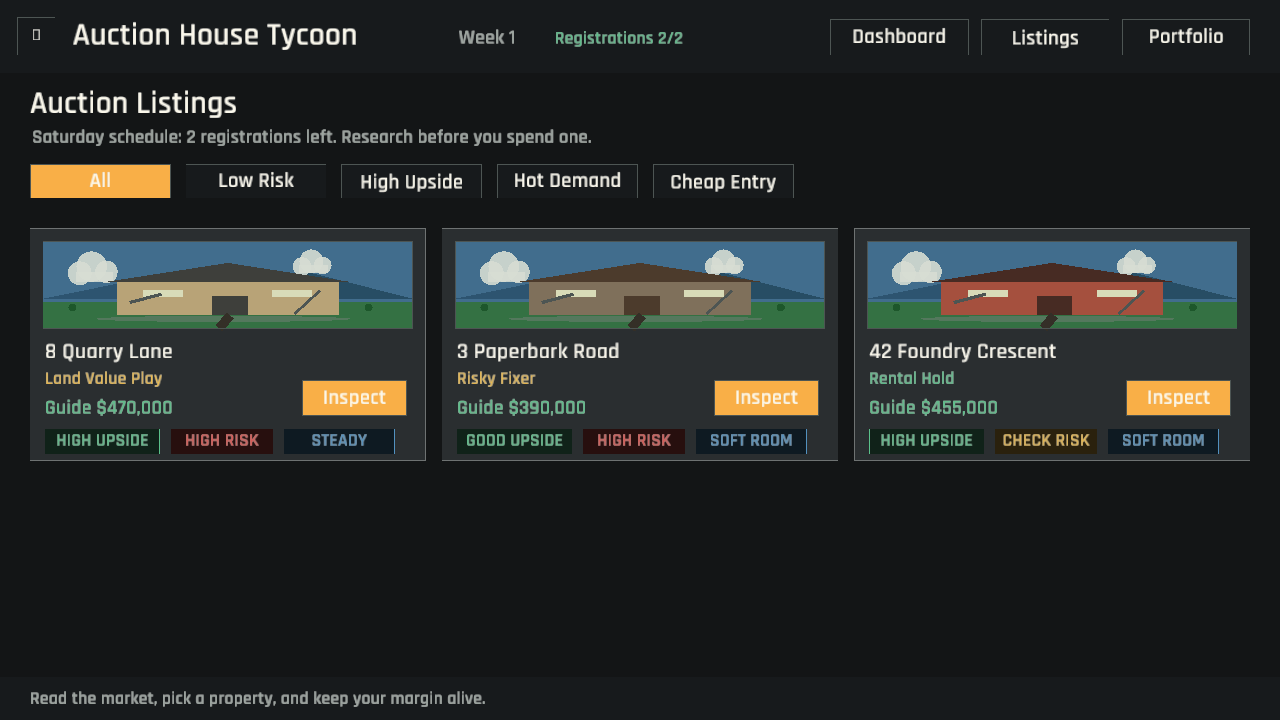
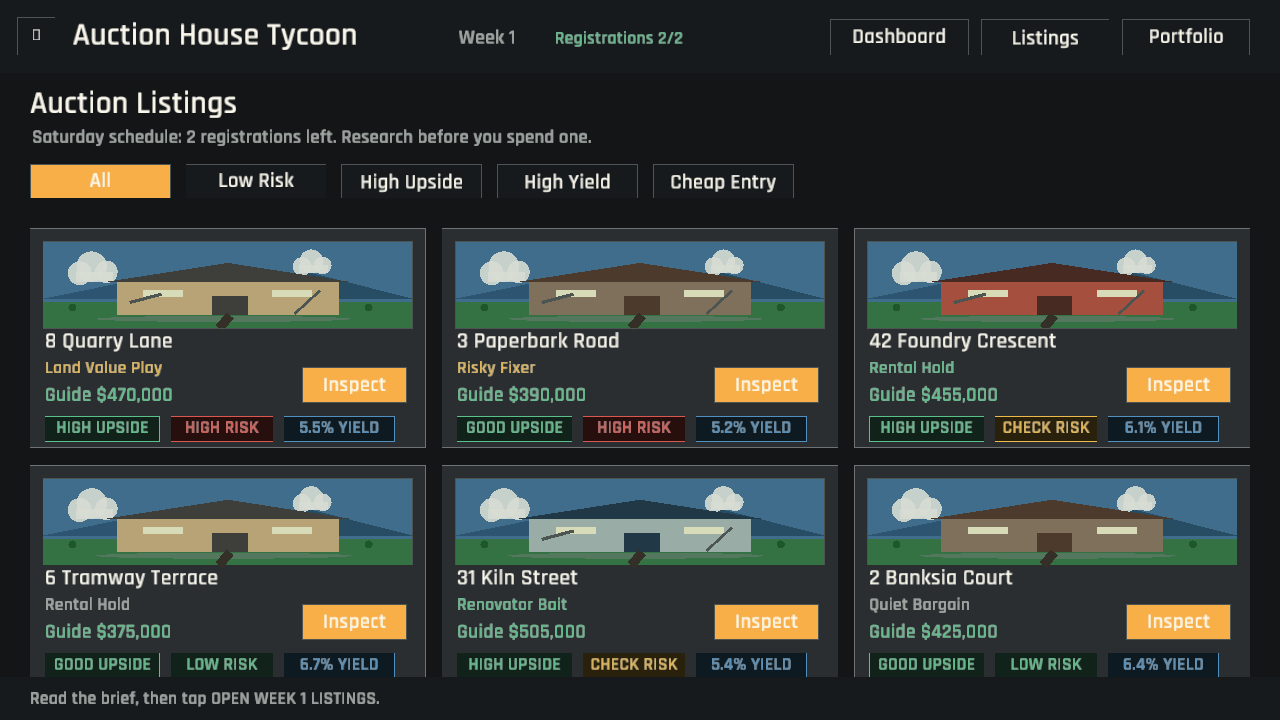
The quiet paddle earns a tell, and the rent column finds its place on Saturday's board (earned room reads and yield-led listings)
WAIT & READ ROOM previously exposed the same perfect ceiling analysis that the live screen displayed continuously, leaving the action without a purpose. The listings filters also prioritised hot resale demand while the campaign explicitly asks the player to build rent.

Room observations now appear only after the player lowers the paddle, become stale on the next player, NPC, or vendor bid, and scale from a visible tell to a coarse or precise read with diligence. Four tests cover read lifecycle, diligence precision, ego stretching, and quick NPC resolution.

Replace Hot Demand with a HIGH YIELD listing filter, print estimated gross yield on every card, and compact both rows for 720p. A content test guarantees multiple high-yield choices in the authored market, while exhausted schedules now direct the player to the visible PORTFOLIO control instead of promising impossible refreshes. Verified with 31 passing tests, initial/read auction and listing captures, and the complete publish.ps1 native/WebGL preview pipeline.

diff --git a/src/screens/property_list.rs b/src/screens/property_list.rs
@@ -1,5 +1,6 @@
 use crate::app::App;
 use crate::model::Property;
+use crate::sim::rental::weekly_rent_for;
 use crate::sim::valuation::estimated_value_range;
 use crate::ui::*;
 use macroquad::prelude::*;
@@ -8,7 +9,7 @@ const FILTERS: [&str; 5] = [
     "All",
     "Low Risk",
     "High Upside",
-    "Hot Demand",
+    "High Yield",
     "Cheap Entry",
 ];
 
@@ -57,7 +58,7 @@ impl App {
             .collect();
 
         let card_w = (ui_width() - 86.0) / 3.0;
-        let card_h = 218.0;
+        let card_h = 206.0;
         let mut inspect_index = None;
 
         for (slot, property_index) in visible.iter().enumerate() {
@@ -73,7 +74,7 @@ impl App {
             label_fit(
                 &property.address,
                 x + 14.0,
-                y + 122.0,
+                y + 112.0,
                 card_w - 144.0,
                 21,
                 TEXT_BRIGHT,
@@ -81,35 +82,35 @@ impl App {
             label(
                 reason_to_care(property, self),
                 x + 14.0,
-                y + 146.0,
+                y + 136.0,
                 16,
                 verdict_color(property, self),
             );
             label(
                 &format!("Guide {}", format_money(property.guide_price)),
                 x + 14.0,
-                y + 174.0,
+                y + 162.0,
                 19,
                 POSITIVE,
             );
             draw_badge(
                 upside_badge(property, self),
-                Rect::new(x + 14.0, y + 188.0, 108.0, 24.0),
+                Rect::new(x + 14.0, y + 176.0, 108.0, 24.0),
                 POSITIVE,
             );
             draw_badge(
                 risk_badge(property),
-                Rect::new(x + 132.0, y + 188.0, 96.0, 24.0),
+                Rect::new(x + 132.0, y + 176.0, 96.0, 24.0),
                 risk_color(property),
             );
             draw_badge(
-                demand_badge(property),
-                Rect::new(x + 238.0, y + 188.0, 104.0, 24.0),
+                &yield_badge(property, self),
+                Rect::new(x + 238.0, y + 176.0, 104.0, 24.0),
                 crate::ui::BLUE,
             );
 
             let inspect_pressed = if button(
-                Rect::new(x + card_w - 116.0, y + 142.0, 98.0, 34.0),
+                Rect::new(x + card_w - 116.0, y + 130.0, 98.0, 34.0),
                 "Inspect",
                 true,
                 ButtonTone::Primary,
@@ -127,14 +128,22 @@ impl App {
             let empty = Rect::new(28.0, 214.0, ui_width() - 56.0, 150.0);
             soft_panel(empty);
             label(
-                "No listings match this filter.",
+                if self.available_properties.is_empty() {
+                    "The season's auction book is exhausted."
+                } else {
+                    "No listings match this filter."
+                },
                 empty.x + 20.0,
                 empty.y + 48.0,
                 24,
                 TEXT_BRIGHT,
             );
             label(
-                "Try All, or advance the week to refresh the market.",
+                if self.available_properties.is_empty() {
+                    "Tap PORTFOLIO to improve, lease, hold, or sell the homes you secured."
+                } else {
+                    "Tap ALL, or advance the week to rotate the market."
+                },
                 empty.x + 20.0,
                 empty.y + 82.0,
                 18,
@@ -152,7 +161,7 @@ fn listing_matches(app: &App, property: &Property) -> bool {
     match app.listing_filter {
         1 => property.hidden_defect_risk < 0.18,
         2 => upside_amount(property, app) >= 70_000,
-        3 => property.buyer_demand >= 65,
+        3 => gross_yield(property, app) >= 0.05,
         4 => property.guide_price <= 500_000,
         _ => true,
     }
@@ -194,14 +203,12 @@ fn risk_color(property: &Property) -> Color {
     }
 }
 
-fn demand_badge(property: &Property) -> &'static str {
-    if property.buyer_demand >= 70 {
-        "HOT DEMAND"
-    } else if property.buyer_demand >= 55 {
-        "STEADY"
-    } else {
-        "SOFT ROOM"
-    }
+fn gross_yield(property: &Property, app: &App) -> f32 {
+    weekly_rent_for(property, app.market()) as f32 * 52.0 / property.guide_price.max(1) as f32
+}
+
+fn yield_badge(property: &Property, app: &App) -> String {
+    format!("{:.1}% YIELD", gross_yield(property, app) * 100.0)
 }
 
 fn reason_to_care(property: &Property, app: &App) -> &'static str {

diff --git a/src/sim/auction_sim.rs b/src/sim/auction_sim.rs
@@ -83,6 +83,7 @@ pub fn create_auction(
         player_bid_count: 0,
         on_market_announced: false,
         vendor_bid_used: false,
+        last_room_read: None,
     }
 }
 
@@ -153,6 +154,7 @@ pub fn place_player_bid(auction: &mut Auction) {
 
     let next_bid = auction.next_bid();
     auction.current_bid = next_bid;
+    auction.last_room_read = None;
     auction.last_bidder = Some(BidderActor::Player);
     auction.player_bid_count += 1;
     extend_if_needed(auction);
@@ -182,6 +184,7 @@ pub fn place_player_jump_bid(auction: &mut Auction) -> String {
 
     let jump_bid = auction.jump_bid();
     auction.current_bid = jump_bid;
+    auction.last_room_read = None;
     auction.last_bidder = Some(BidderActor::Player);
     auction.jump_bid_available = false;
     auction.player_bid_count += 1;
@@ -257,6 +260,7 @@ pub fn hold_player_position(auction: &mut Auction) -> String {
     }
 
     let read = room_read(auction);
+    auction.last_room_read = Some(read.clone());
     push_log(auction, format!("You wait with the paddle down. {read}"));
     auction.call_timer = auction.call_timer.min(0.45);
     for bidder in &mut auction.bidders {
@@ -289,6 +293,19 @@ pub fn room_read(auction: &Auction) -> String {
         return "No active bidder wants the next bid.".to_string();
     };
     let bidder = &auction.bidders[index];
+    if auction.player_research_level == ResearchLevel::StreetScan {
+        return format!("{}: {}", bidder.name, bidder.tell);
+    }
+    if auction.player_research_level == ResearchLevel::AgentPack {
+        return if headroom <= auction.bid_increment * 2 {
+            format!("{} looks uncomfortable at the next call.", bidder.name)
+        } else {
+            format!(
+                "{} still looks composed; the ceiling is unclear.",
+                bidder.name
+            )
+        };
+    }
     if headroom < 0 {
         format!("{} is priced out if the room asks again.", bidder.name)
     } else if headroom <= auction.bid_increment {
@@ -348,6 +365,7 @@ fn place_npc_bid(auction: &mut Auction, index: usize) {
     let next_bid = npc_bid_amount(auction, index);
     let was_stretch = next_bid > auction.bidders[index].max_price;
     auction.current_bid = next_bid;
+    auction.last_room_read = None;
     auction.last_bidder = Some(BidderActor::Npc(index));
     auction.bidders[index].bid_count += 1;
     auction.bidders[index].heat = (auction.bidders[index].heat + 12).min(100);

diff --git a/src/sim/auction_sim/tests.rs b/src/sim/auction_sim/tests.rs
@@ -166,3 +166,49 @@ fn crossing_the_true_reserve_announces_on_market_without_revealing_it_early() {
         .iter()
         .any(|entry| entry.text.contains("on the market")));
 }
+
+#[test]
+fn waiting_earns_a_room_read_and_the_next_bid_makes_it_stale() {
+    let mut auction = auction();
+
+    hold_player_position(&mut auction);
+    assert!(auction.last_room_read.is_some());
+
+    place_player_bid(&mut auction);
+    assert!(auction.last_room_read.is_none());
+}
+
+#[test]
+fn diligence_changes_room_read_precision() {
+    let mut auction = auction();
+    auction.player_research_level = ResearchLevel::StreetScan;
+    let street_read = room_read(&auction);
+    auction.player_research_level = ResearchLevel::AgentPack;
+    let agent_read = room_read(&auction);
+
+    assert!(street_read.contains(':'));
+    assert!(agent_read.contains("looks"));
+    assert_ne!(street_read, agent_read);
+}
+
+#[test]
+fn ego_bidder_can_stretch_when_the_player_makes_it_personal() {
+    let mut auction = auction();
+    auction.last_bidder = Some(BidderActor::Player);
+    let ego_limit = auction.bidders[1].max_price;
+
+    assert!(bidder_effective_ceiling(&auction, 1) > ego_limit);
+}
+
+#[test]
+fn quick_resolution_always_reaches_a_hammer_or_pass_in() {
+    let mut auction = auction();
+    stop_player_bidding(&mut auction);
+
+    quick_resolve_auction(&mut auction);
+
+    assert!(auction.status.is_some());
+    if matches!(auction.status, Some(AuctionStatus::SoldToNpc(_))) {
+        assert!(auction.current_bid >= auction.reserve_price);
+    }
+}

diff --git a/src/app/capture.rs b/src/app/capture.rs
@@ -1,7 +1,7 @@
 use super::App;
 use crate::model::{CampaignStatus, OwnedProperty, Property, ResearchLevel, WalkawayStyle};
 use crate::screens::Screen;
-use crate::sim::auction_sim::place_player_bid;
+use crate::sim::auction_sim::{hold_player_position, place_player_bid};
 use crate::sim::maintenance::{next_maintenance_week, trigger_due_maintenance};
 use crate::sim::rental::weekly_rent_for_owned;
 use crate::sim::valuation::{deposit, purchase_fees};
@@ -39,6 +39,15 @@ impl App {
                     if let Some(auction) = self.current_auction.as_mut() {
                         auction.current_bid = auction.reserve_price - auction.bid_increment;
                         place_player_bid(auction);
+                    }
+                }
+            }
+            "auction_read" => {
+                self.start_new_game();
+                if let Some(property) = self.available_properties.first().cloned() {
+                    self.start_auction(property.id);
+                    if let Some(auction) = self.current_auction.as_mut() {
+                        hold_player_position(auction);
                     }
                 }
             }

diff --git a/src/screens/auction.rs b/src/screens/auction.rs
@@ -6,7 +6,7 @@ use crate::screens::auction_widgets::{
 use crate::screens::Screen;
 use crate::sim::auction_sim::{
     hold_player_position, place_player_bid, place_player_jump_bid, quick_resolve_auction,
-    room_read, stop_player_bidding, AUCTION_DURATION_SECONDS,
+    stop_player_bidding, AUCTION_DURATION_SECONDS,
 };
 use crate::sim::finance::{finance_snapshot, FinanceSnapshot};
 use crate::sim::research::estimate_reserve;
@@ -461,7 +461,10 @@ fn draw_live_decision_panel(
         if jump_over_plan { NEGATIVE } else { WARNING },
     );
     draw_wrapped_text(
-        &format!("Room read: {}", room_read(auction)),
+        auction
+            .last_room_read
+            .as_deref()
+            .unwrap_or("Tap WAIT & READ ROOM to observe a current tell."),
         rect.x + 54.0,
         rect.y + 444.0,
         rect.w - 108.0,

diff --git a/src/data/tests.rs b/src/data/tests.rs
@@ -1,5 +1,7 @@
 use super::*;
 use crate::model::DealArchetype;
+use crate::model::Property;
+use crate::sim::rental::weekly_rent_for;
 use std::collections::HashSet;
 
 #[test]
@@ -27,4 +29,20 @@ fn weekly_property_costs_stay_in_the_rebalanced_band() {
         .properties
         .iter()
         .all(|property| (90..=220).contains(&property.holding_cost_per_week)));
+}
+
+#[test]
+fn starter_market_contains_multiple_high_yield_choices() {
+    let data = GameData::load();
+    let market = &data.market_events[0];
+    let high_yield_count = data
+        .properties
+        .iter()
+        .map(Property::from_template)
+        .filter(|property| {
+            weekly_rent_for(property, market) as f32 * 52.0 / property.guide_price as f32 >= 0.05
+        })
+        .count();
+
+    assert!(high_yield_count >= 4);
 }

diff --git a/src/sim/auction_events.rs b/src/sim/auction_events.rs
@@ -17,6 +17,7 @@ pub(super) fn place_vendor_bid(auction: &mut Auction) {
         return;
     }
     auction.current_bid = vendor_bid;
+    auction.last_room_read = None;
     auction.last_bidder = Some(BidderActor::Vendor);
     push_log(
         auction,

diff --git a/src/model/auction.rs b/src/model/auction.rs
@@ -86,6 +86,8 @@ pub struct Auction {
     pub on_market_announced: bool,
     #[serde(default)]
     pub vendor_bid_used: bool,
+    #[serde(default)]
+    pub last_room_read: Option<String>,
 }
 
 impl Auction {

diff --git a/GAME_DESIGN.md b/GAME_DESIGN.md
@@ -31,6 +31,7 @@ The three requirements prevent a single degenerate strategy. Cheap but poor asse
 - The vendor's true reserve stays hidden; research provides an estimate and the auctioneer announces when bidding crosses the real line.
 - One declared vendor bid may move the auction below reserve, but can never buy the property or put it on the market.
 - ASSERT is theatre with asymmetric consequences: it discourages rational buyers and can provoke emotional ones.
+- A room read is earned by lowering the paddle; the observation becomes stale on the next bid, and better diligence makes it more precise.
 - A renovation is recommended only when its expected value exceeds its full quoted effect.
 - Known structural defects must be repaired before a tenant can be placed.
 - Completed improvements raise the next rent appraisal; an existing tenancy can be ended for one week's rent to reopen renovation.

diff --git a/README.md b/README.md
@@ -10,6 +10,7 @@ Winning an auction is not automatically good. The real challenge is knowing what
 - Inspect properties and estimate risk.
 - Set a walk-away price before bidding.
 - Raise normally, make one assertive jump, wait for a rival tell, or walk away in live auctions.
+- Tap WAIT & READ ROOM to earn a current observation; the next bid makes that read stale.
 - Hear a legal vendor bid below the hidden reserve and the auctioneer's decisive on-market call.
 - Renovate, place or end tenancies, collect rent, handle scheduled maintenance, hold, or sell purchased properties.
 - Track every property, cash, debt, rent, weekly cashflow, fees, repairs, and net worth.

diff --git a/TODO.md b/TODO.md
@@ -6,7 +6,7 @@
 
 ## Auction depth
 
-- Add deterministic coverage for NPC-to-NPC hammer outcomes and all emotional stretch archetypes.
+- Add deterministic coverage for every emotional stretch archetype.
 
 ## Presentation
 
